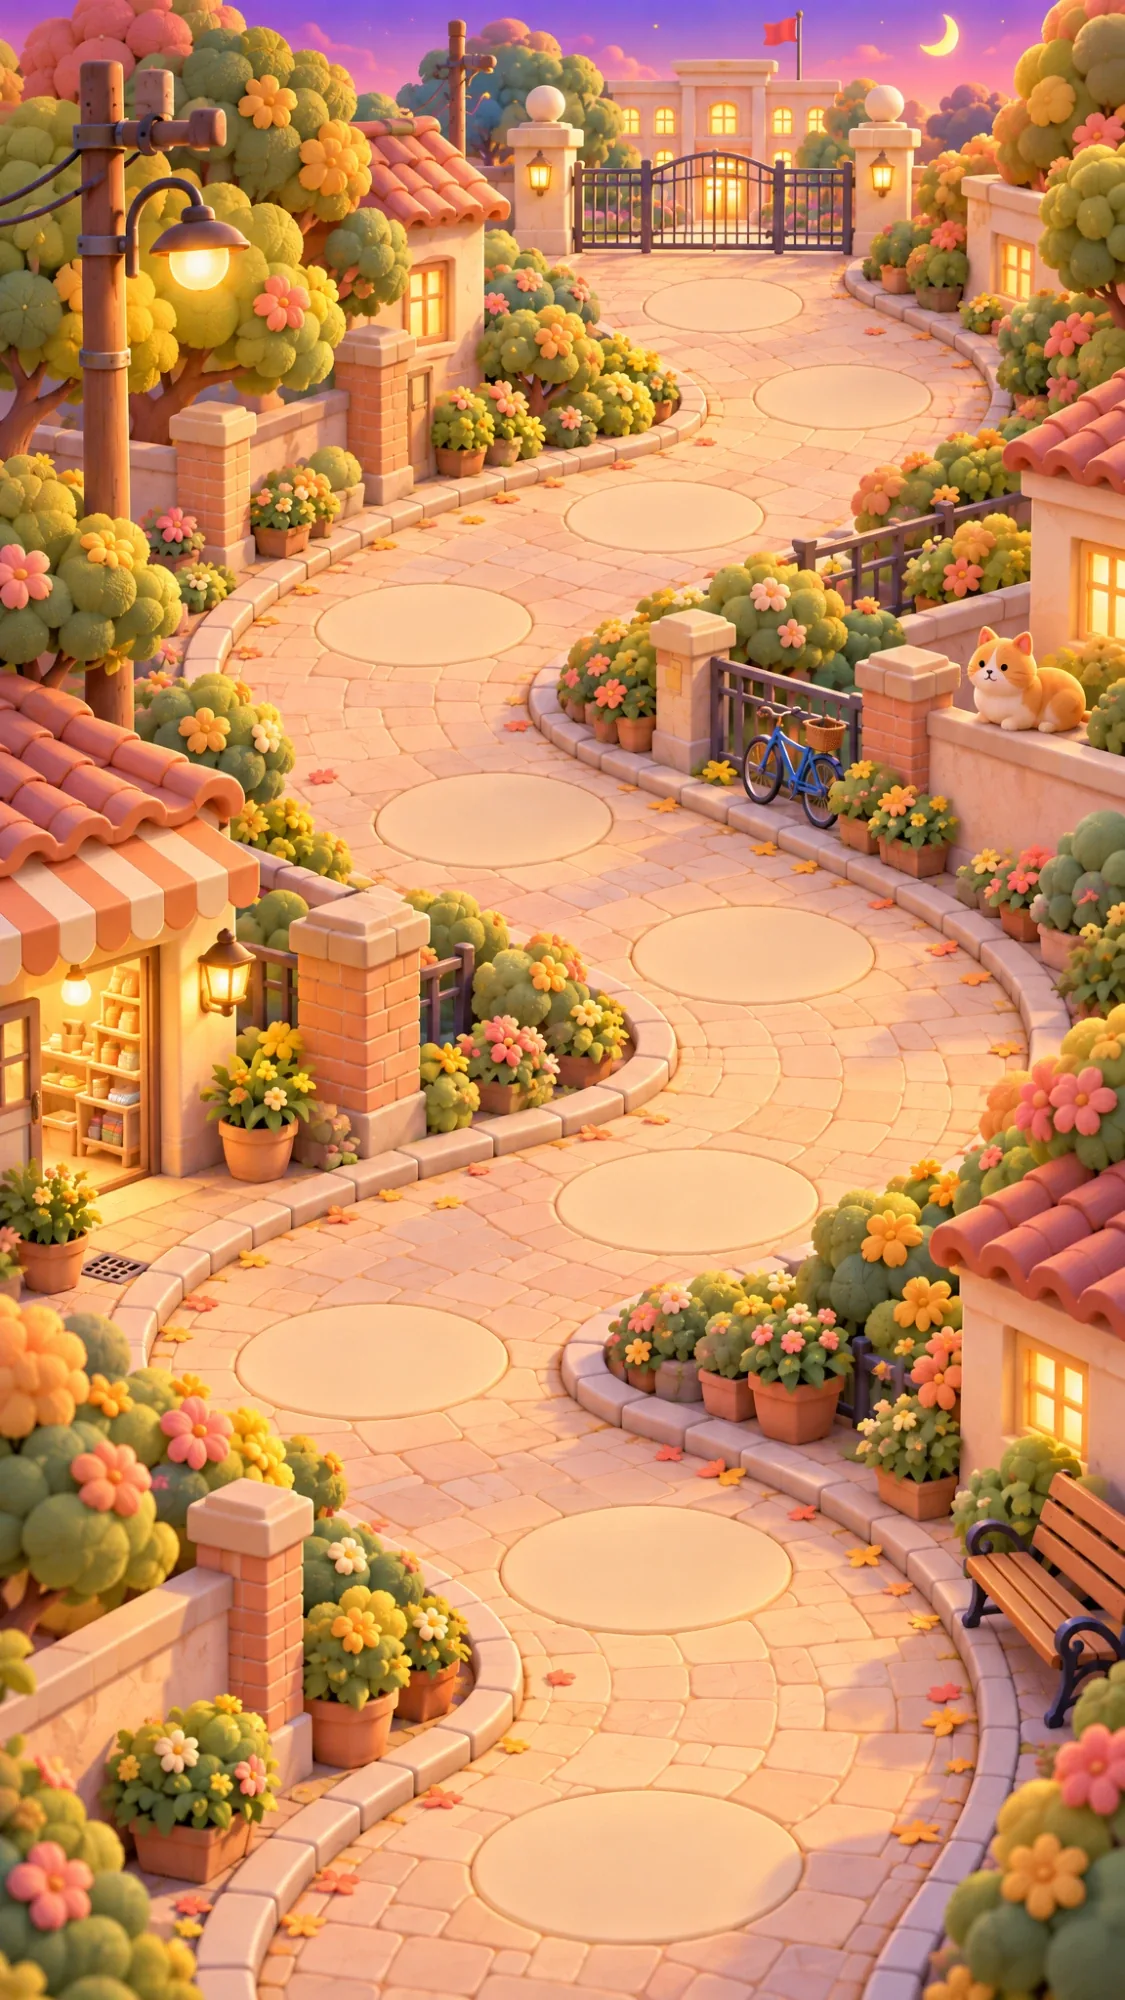
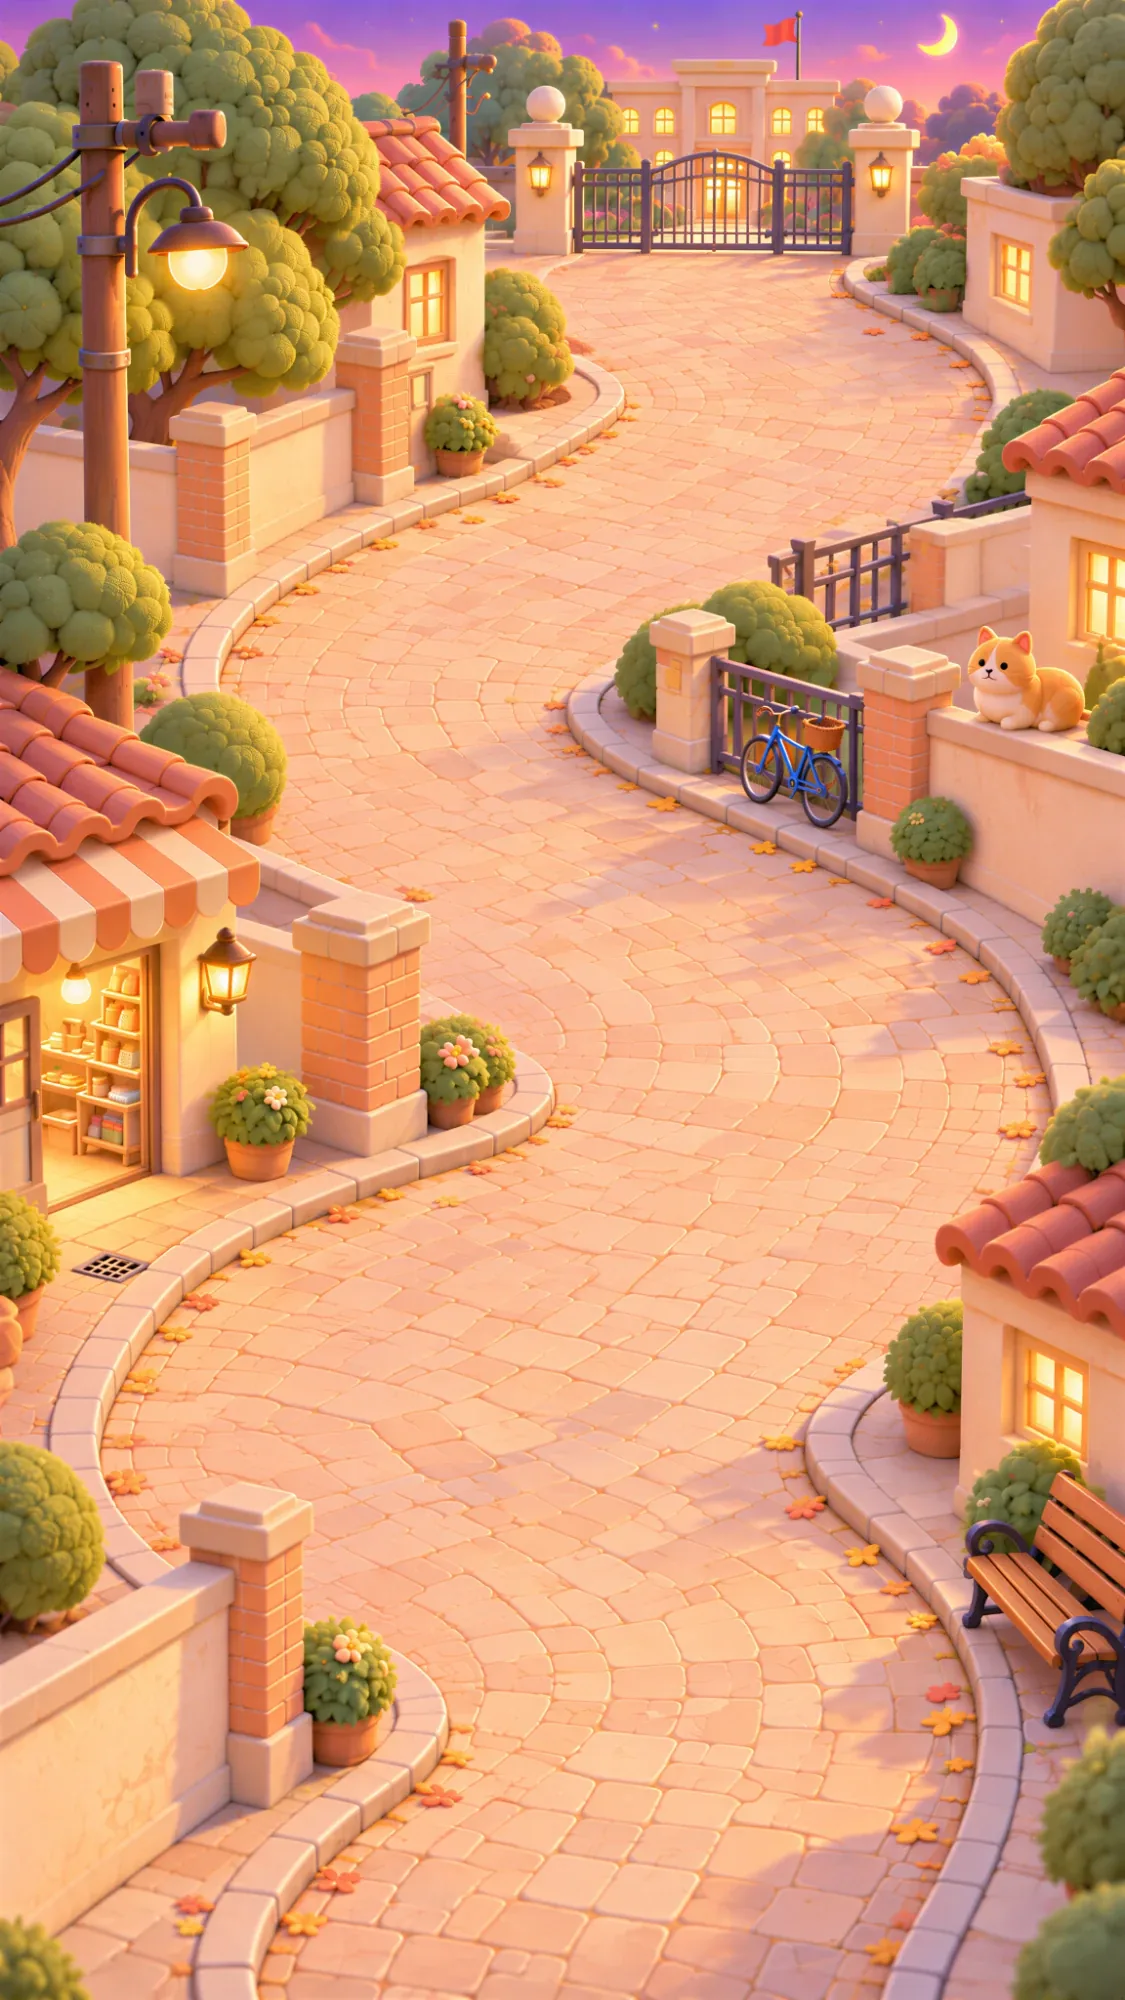
地图背景v3、已通关圆台、白色三角指示

diff --git a/app/assets/main.js b/app/assets/main.js
@@ -1885,10 +1885,12 @@ function showMap() {
   var h = '<i class="lm-tint top"></i><i class="lm-tint bot"></i><div class="lm-stage"><img class="lm-bg" alt="关卡地图" src="./assets/img/map/map_bg.webp?v=' + BUILD_V + '">';
   MAP_PADS.forEach(function (n, i) {
     // 用美术切图：亮的（带光晕，石台只占图宽 72%）/ 锁着的；数字由程序叠在台面上
-    var st = i < open ? (i === cur && G.cleared < 10 ? 'cur' : 'open') : 'lock', lock = st === 'lock', w = n[2] * .72 / (lock ? 1 : .72);
+    // 已通过：node_done（石台占图宽 63%）；当前关：node_lit（72%）；锁着：node_lock（整张）
+    var st = i < open ? (i === cur && G.cleared < 10 ? 'cur' : 'open') : 'lock', lock = st === 'lock', done = st === 'open';
+    var w = n[2] * .72 / (lock ? 1 : done ? .63 : .72), file = lock ? 'node_lock' : done ? 'node_done' : 'node_lit', ty = lock ? 28 : done ? 38 : 39;
     h += '<button class="lm-node ' + st + '" data-act="mapnode" data-i="' + i + '" style="left:' + (n[0] / 11.25) + '%;top:' + (n[1] / 20) + '%;width:' + (w / 11.25) + '%" aria-label="第 ' + (i + 1) + ' 关">' +
-      '<img alt="" src="./assets/img/map/' + (lock ? 'node_lock' : 'node_lit') + '.webp?v=' + BUILD_V + '"><b style="top:' + (lock ? 28 : 39) + '%">' + (i + 1) + '</b>' +
-      (st === 'cur' ? '<i class="lm-arrow"><b>▼</b></i>' : '') + '</button>';
+      '<img alt="" src="./assets/img/map/' + file + '.webp?v=' + BUILD_V + '"><b style="top:' + ty + '%">' + (i + 1) + '</b>' +
+      (st === 'cur' ? '<i class="lm-tri"></i>' : '') + '</button>';
   });
   var UI = './assets/img/ui/', V = '?v=' + BUILD_V;
   h += '</div><div class="lm-hud">' +

diff --git a/docs/assets/main.js b/docs/assets/main.js
@@ -1870,10 +1870,12 @@ function showMap() {
   var h = '<i class="lm-tint top"></i><i class="lm-tint bot"></i><div class="lm-stage"><img class="lm-bg" alt="关卡地图" src="./assets/img/map/map_bg.webp?v=' + BUILD_V + '">';
   MAP_PADS.forEach(function (n, i) {
     // 用美术切图：亮的（带光晕，石台只占图宽 72%）/ 锁着的；数字由程序叠在台面上
-    var st = i < open ? (i === cur && G.cleared < 10 ? 'cur' : 'open') : 'lock', lock = st === 'lock', w = n[2] * .72 / (lock ? 1 : .72);
+    // 已通过：node_done（石台占图宽 63%）；当前关：node_lit（72%）；锁着：node_lock（整张）
+    var st = i < open ? (i === cur && G.cleared < 10 ? 'cur' : 'open') : 'lock', lock = st === 'lock', done = st === 'open';
+    var w = n[2] * .72 / (lock ? 1 : done ? .63 : .72), file = lock ? 'node_lock' : done ? 'node_done' : 'node_lit', ty = lock ? 28 : done ? 38 : 39;
     h += '<button class="lm-node ' + st + '" data-act="mapnode" data-i="' + i + '" style="left:' + (n[0] / 11.25) + '%;top:' + (n[1] / 20) + '%;width:' + (w / 11.25) + '%" aria-label="第 ' + (i + 1) + ' 关">' +
-      '<img alt="" src="./assets/img/map/' + (lock ? 'node_lock' : 'node_lit') + '.webp?v=' + BUILD_V + '"><b style="top:' + (lock ? 28 : 39) + '%">' + (i + 1) + '</b>' +
-      (st === 'cur' ? '<i class="lm-arrow"><b>▼</b></i>' : '') + '</button>';
+      '<img alt="" src="./assets/img/map/' + file + '.webp?v=' + BUILD_V + '"><b style="top:' + ty + '%">' + (i + 1) + '</b>' +
+      (st === 'cur' ? '<i class="lm-tri"></i>' : '') + '</button>';
   });
   var UI = './assets/img/ui/', V = '?v=' + BUILD_V;
   h += '</div><div class="lm-hud">' +

diff --git a/versions/stable-v30/assets/main.js b/versions/stable-v30/assets/main.js
@@ -1870,10 +1870,12 @@ function showMap() {
   var h = '<i class="lm-tint top"></i><i class="lm-tint bot"></i><div class="lm-stage"><img class="lm-bg" alt="关卡地图" src="./assets/img/map/map_bg.webp?v=' + BUILD_V + '">';
   MAP_PADS.forEach(function (n, i) {
     // 用美术切图：亮的（带光晕，石台只占图宽 72%）/ 锁着的；数字由程序叠在台面上
-    var st = i < open ? (i === cur && G.cleared < 10 ? 'cur' : 'open') : 'lock', lock = st === 'lock', w = n[2] * .72 / (lock ? 1 : .72);
+    // 已通过：node_done（石台占图宽 63%）；当前关：node_lit（72%）；锁着：node_lock（整张）
+    var st = i < open ? (i === cur && G.cleared < 10 ? 'cur' : 'open') : 'lock', lock = st === 'lock', done = st === 'open';
+    var w = n[2] * .72 / (lock ? 1 : done ? .63 : .72), file = lock ? 'node_lock' : done ? 'node_done' : 'node_lit', ty = lock ? 28 : done ? 38 : 39;
     h += '<button class="lm-node ' + st + '" data-act="mapnode" data-i="' + i + '" style="left:' + (n[0] / 11.25) + '%;top:' + (n[1] / 20) + '%;width:' + (w / 11.25) + '%" aria-label="第 ' + (i + 1) + ' 关">' +
-      '<img alt="" src="./assets/img/map/' + (lock ? 'node_lock' : 'node_lit') + '.webp?v=' + BUILD_V + '"><b style="top:' + (lock ? 28 : 39) + '%">' + (i + 1) + '</b>' +
-      (st === 'cur' ? '<i class="lm-arrow"><b>▼</b></i>' : '') + '</button>';
+      '<img alt="" src="./assets/img/map/' + file + '.webp?v=' + BUILD_V + '"><b style="top:' + ty + '%">' + (i + 1) + '</b>' +
+      (st === 'cur' ? '<i class="lm-tri"></i>' : '') + '</button>';
   });
   var UI = './assets/img/ui/', V = '?v=' + BUILD_V;
   h += '</div><div class="lm-hud">' +

diff --git a/app/assets/style.css b/app/assets/style.css
@@ -990,3 +990,6 @@ html,body{min-height:calc(100% + env(safe-area-inset-top, 0px))}
 @-webkit-keyframes lmPulse2{0%,100%{-webkit-transform:scale(1)}50%{-webkit-transform:scale(1.06)}}
 @keyframes lmPulse2{0%,100%{transform:scale(1)}50%{transform:scale(1.06)}}
 .lvmap .lm-node .lm-arrow{top:14%}
+/* 当前关的指示：白色等边三角形，正对数字上方，上下轻跳 */
+.lvmap .lm-tri{position:absolute;left:50%;top:6%;width:0;height:0;margin-left:-11px;border-left:11px solid transparent;border-right:11px solid transparent;border-top:19px solid #fff;-webkit-filter:drop-shadow(0 2px 2px rgba(150,80,20,.45));filter:drop-shadow(0 2px 2px rgba(150,80,20,.45));-webkit-animation:lmBob 1s ease-in-out infinite;animation:lmBob 1s ease-in-out infinite;pointer-events:none}
+.lvmap .lm-tri{top:-6%}

diff --git a/docs/assets/style.css b/docs/assets/style.css
@@ -981,3 +981,6 @@ html,body{min-height:calc(100% + env(safe-area-inset-top, 0px))}
 @-webkit-keyframes lmPulse2{0%,100%{-webkit-transform:scale(1)}50%{-webkit-transform:scale(1.06)}}
 @keyframes lmPulse2{0%,100%{transform:scale(1)}50%{transform:scale(1.06)}}
 .lvmap .lm-node .lm-arrow{top:14%}
+/* 当前关的指示：白色等边三角形，正对数字上方，上下轻跳 */
+.lvmap .lm-tri{position:absolute;left:50%;top:6%;width:0;height:0;margin-left:-11px;border-left:11px solid transparent;border-right:11px solid transparent;border-top:19px solid #fff;-webkit-filter:drop-shadow(0 2px 2px rgba(150,80,20,.45));filter:drop-shadow(0 2px 2px rgba(150,80,20,.45));-webkit-animation:lmBob 1s ease-in-out infinite;animation:lmBob 1s ease-in-out infinite;pointer-events:none}
+.lvmap .lm-tri{top:-6%}

diff --git a/versions/stable-v30/assets/style.css b/versions/stable-v30/assets/style.css
@@ -981,3 +981,6 @@ html,body{min-height:calc(100% + env(safe-area-inset-top, 0px))}
 @-webkit-keyframes lmPulse2{0%,100%{-webkit-transform:scale(1)}50%{-webkit-transform:scale(1.06)}}
 @keyframes lmPulse2{0%,100%{transform:scale(1)}50%{transform:scale(1.06)}}
 .lvmap .lm-node .lm-arrow{top:14%}
+/* 当前关的指示：白色等边三角形，正对数字上方，上下轻跳 */
+.lvmap .lm-tri{position:absolute;left:50%;top:6%;width:0;height:0;margin-left:-11px;border-left:11px solid transparent;border-right:11px solid transparent;border-top:19px solid #fff;-webkit-filter:drop-shadow(0 2px 2px rgba(150,80,20,.45));filter:drop-shadow(0 2px 2px rgba(150,80,20,.45));-webkit-animation:lmBob 1s ease-in-out infinite;animation:lmBob 1s ease-in-out infinite;pointer-events:none}
+.lvmap .lm-tri{top:-6%}

diff --git a/docs/index.html b/docs/index.html
@@ -9,7 +9,7 @@
   <meta name="apple-mobile-web-app-status-bar-style" content="black-translucent" />
   <meta name="apple-mobile-web-app-title" content="买烤肠" />
   <title>校门口烤肠摊</title>
-  <link rel="stylesheet" href="./assets/style.css?v=261021154537" />
+  <link rel="stylesheet" href="./assets/style.css?v=261021155551" />
 </head>
 <body>
   <div id="app">
@@ -31,6 +31,6 @@
     <div class="log" id="log"></div>
   </div>
   <div class="overlay" id="overlay" hidden></div>
-  <script src="./assets/main.js?v=261021154537"></script>
+  <script src="./assets/main.js?v=261021155551"></script>
 </body>
 </html>
